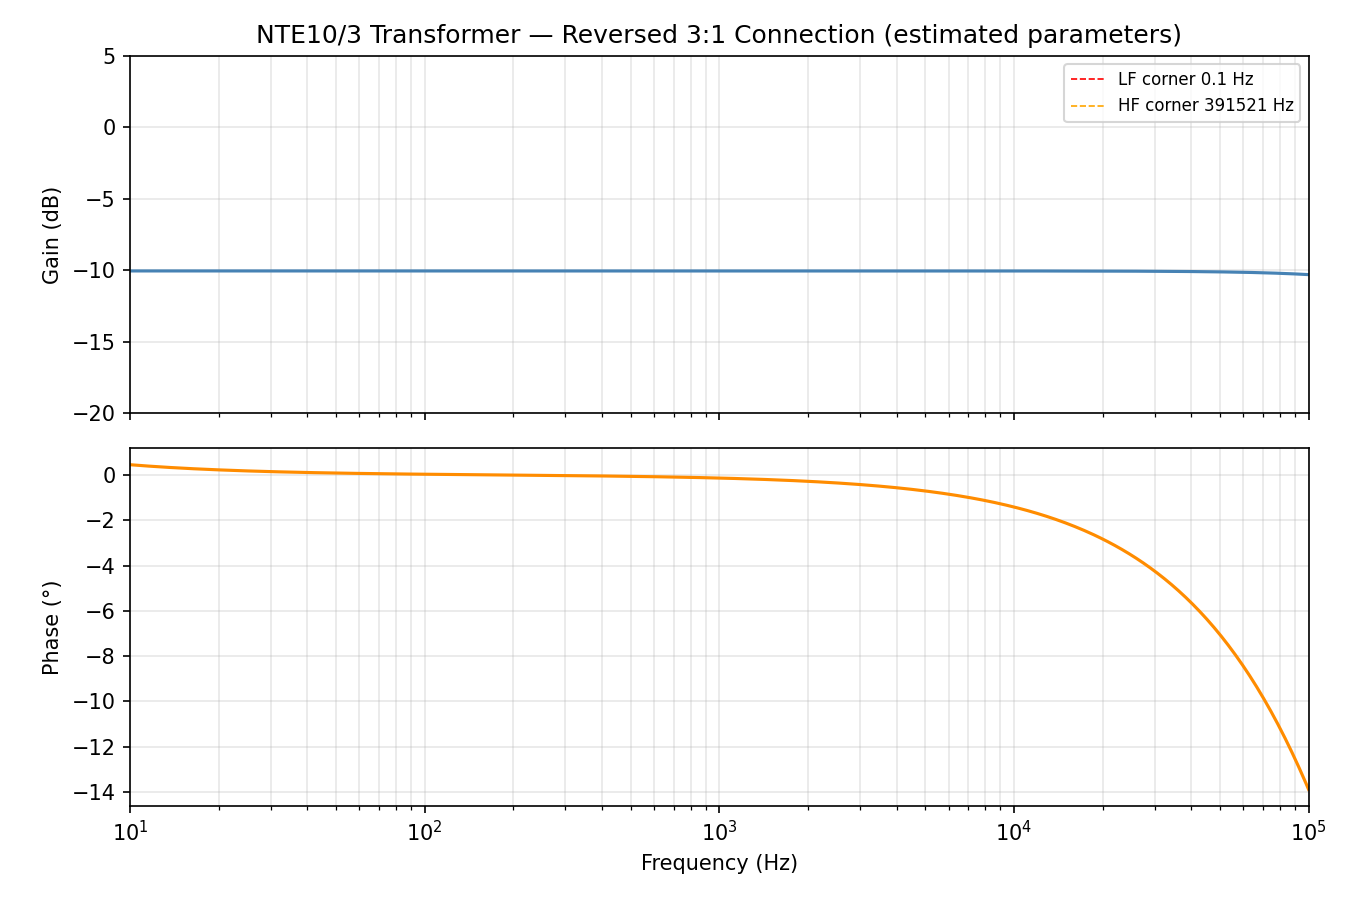
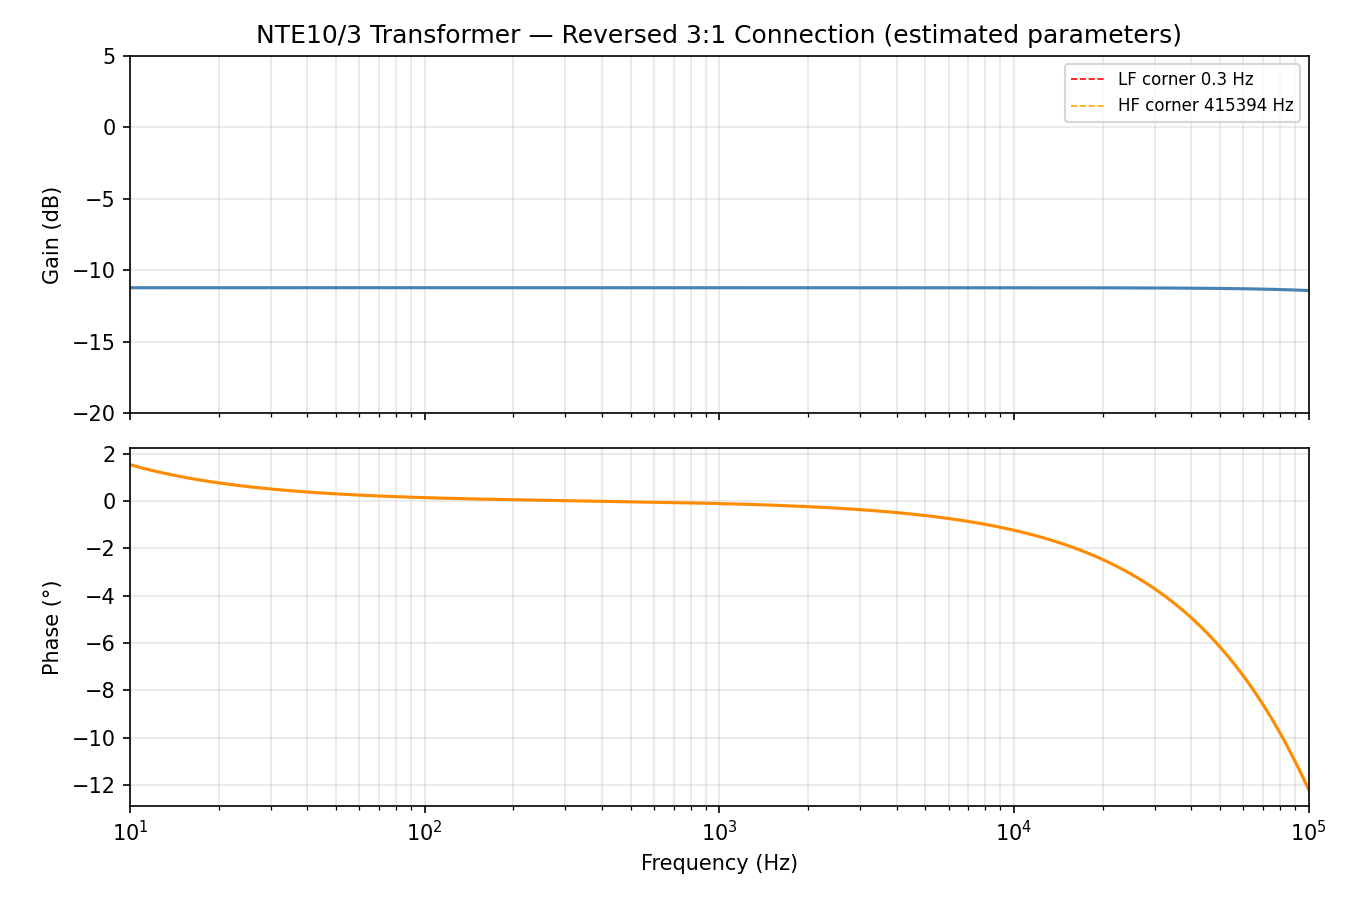
Update NTE10/3 DCR to datasheet values; correct all Zout references
Confirmed from Neutrik official datasheet via distributor sources:
  DCR primary (1× winding): 105 Ω ±5%  (was 30 Ω estimated)
  DCR secondary (3× winding): 1.25 kΩ ±5%  (was 270 Ω estimated)

Impact on reversed 3:1 connection:
  Zout at XLR: 71 Ω → 255 Ω  (DCR_pri + reflected DCR_sec/n²)
  Passband gain: −10.04 dB → −11.22 dB  (more DCR insertion loss)
  Differential gain K47 @ 1 kHz: 17.2 dB → 16.0 dB  [still PASS]
  K87 shelf @ 100 kHz: −5.9 dB  [PASS unchanged]
  LF corner: 0.09 Hz → 0.30 Hz  (DCR_sec now 1.25 kΩ in L/R divider)

Also resolved: the table the user found showing "1:1 turns ratio" was NTL1/
NTM1/NTM4 data — NTE10/3 row was missing. Turns ratio 1:3:10 confirmed.
L_LEAK remains TBD; update after bench measurement.

diff --git a/sim/signal_chain.py b/sim/signal_chain.py
@@ -24,13 +24,13 @@ Transformer connection
   Reversed 3:1 — op-amp drives 3× winding (secondary, 720 H), XLR output
   from 1× winding (primary, 80 H).  Standard Neumann/AKG practice:
     · Op-amp load : 600 Ω × 9 = 5.4 kΩ  (easy drive, full headroom)
-    · Zout at XLR : ≈ 61 Ω  (DCR_pri + reflected, excellent for cable)
+    · Zout at XLR : ≈ 255 Ω  (DCR_pri + reflected DCR_sec/n²)
     · Voltage gain through TX: ×(1/3) = −9.5 dB
 
   L_pri = 80 H  (community bench measurement; verify with LCR meter)
   n = 3  (1:3 tap)  →  L_sec = 720 H  (3× winding, driven winding)
   k ≈ 0.999997  (leakage ~0.5 mH referred to primary → HF −3dB estimated)
-  DCR_pri = 30 Ω, DCR_sec = 270 Ω  (estimated — update after bench measurement)
+  DCR_pri = 105 Ω ±5%, DCR_sec = 1.25 kΩ ±5%  (Neutrik datasheet confirmed)
 
 Outputs
 -------
@@ -93,8 +93,8 @@ L_PRI     = 80.0        # H  — community measurement; verify at bench
 L_SEC     = L_PRI * N_TURNS**2   # = 720 H
 L_LEAK    = 5e-4        # H  referred to primary (~0.5 mH → HF corner ~42 kHz)
 K_COUPLE  = (1.0 - L_LEAK / L_PRI) ** 0.5   # coupling coefficient
-DCR_PRI   = 30.0        # Ω  — estimated; measure at bench
-DCR_SEC   = DCR_PRI * N_TURNS**2  # = 270 Ω (scaled by n²)
+DCR_PRI   = 105.0       # Ω  — Neutrik datasheet: 105 Ω ±5% (1× winding)
+DCR_SEC   = 1250.0      # Ω  — Neutrik datasheet: 1.25 kΩ ±5% (3× winding)
 
 # Load
 R_LOAD_EACH = 600.0     # Ω per balanced leg (600 Ω standard XLR load, each side)
@@ -224,9 +224,9 @@ Xeq  eq_inp  eq_inn  eq_out  opamp1
 * This is the standard Neumann/AKG approach: the high-turn winding sees the buffer,
 * the low-turn winding drives the XLR cable.
 *   Op-amp load : 600Ω × (3/1)² = 5.4 kΩ  (easy, full headroom)
-*   Zout at XLR : (Zop + DCR_sec)/9 + DCR_pri ≈ 61 Ω  (excellent for cable drive)
+*   Zout at XLR : (Zop + DCR_sec)/9 + DCR_pri ≈ 255 Ω
 *   Voltage     : V_xlr = V_opamp / 3  (−9.5 dB, compensated by JFET+EQ gain)
-* Estimated parameters — update DCR_PRI, DCR_SEC, L_LEAK after bench measurement
+* DCR values from Neutrik datasheet; L_LEAK TBD at bench
 Rdcr_in   eq_out   txs_hi  {DCR_SEC:.4g}
 Lsec      txs_hi   txs_lo  {L_SEC}H
 Lpri      txp_hi   txp_lo  {L_PRI}H
@@ -446,9 +446,9 @@ print()
 print("─" * 68)
 print("Summary:")
 print(f"  Analytical gain (K47, 1 kHz): {20*np.log10(Av_total_k47):.1f} dB")
-print(f"  Transformer step-down        : {20*np.log10(1/N_TURNS):.1f} dB (reversed 3:1, Zout≈61Ω)")
+print(f"  Transformer step-down        : {20*np.log10(1/N_TURNS):.1f} dB (reversed 3:1, Zout≈255Ω)")
 print(f"  Transformer LF −3 dB         : {lf_corner:.2f} Hz  (estimated)")
 print(f"  Transformer HF −3 dB         : {hf_corner/1e3:.0f} kHz  (estimated)")
 print(f"  All checks: {'PASS' if all_pass else 'FAIL (check log)'}")
 print()
-print("NOTE: Transformer values are estimates. Update sim after bench measurement of DCR/Lleak.")
+print("NOTE: DCR confirmed from Neutrik datasheet. L_LEAK TBD — update after bench measurement.")

diff --git a/sim/tx_output.py b/sim/tx_output.py
@@ -63,9 +63,9 @@ import matplotlib.pyplot as plt
 N_TURNS = 3.0          # voltage ratio of driven:output winding (3:1 step-down)
 L_PRI_H = 80.0         # 1× winding inductance [H] — community measurement; verify at bench
 L_SEC_H = L_PRI_H * N_TURNS ** 2   # = 720 H  (3× driven winding)
-L_LEAK_H = 0.0005      # leakage inductance referred to 1× (output) winding [H] — TBD
-DCR_PRI_OHM = 30.0     # 1× winding DCR [Ω] — output side; TBD at bench
-DCR_SEC_OHM = 270.0    # 3× winding DCR [Ω] — input side; = 30 × n² = 270 Ω estimated
+L_LEAK_H = 0.0005      # leakage inductance referred to 1× (output) winding [H] — TBD at bench
+DCR_PRI_OHM = 105.0    # 1× winding DCR [Ω] — Neutrik datasheet: 105 Ω ±5%
+DCR_SEC_OHM = 1250.0   # 3× winding DCR [Ω] — Neutrik datasheet: 1.25 kΩ ±5%
 
 # ── Circuit parameters ────────────────────────────────────────────────────────
 R_SRC_OHM = 100.0      # op-amp output impedance after EQ [Ω] (approximate)

diff --git a/README.md b/README.md
@@ -34,7 +34,7 @@ Solid-state condenser microphone with transformer-balanced output.
 | Power | LR8 pre-regulator (48V phantom → 35.2V). Diode charge pump → V_BOOST for JFET drain. TPS7A3901 WSON-12 → ±15V op-amp supply. Total draw 9.1 mA typ (< 10 mA IEC 61938). |
 | Input | High-Z JFET buffer (MMBF170LT1G SOT-23) with op-amp DC servo for bias stability. |
 | EQ | Active de-emphasis network tuned for K67/K87. Flat (K47) or −6 dB shelf above ~22 kHz (K87) via SJ1 solder bridge. |
-| Output | Neutrik NTE10/3, reversed 3:1 connection (op-amp drives 3× winding, XLR from 1× winding): transformer-balanced, galvanic isolation, passive CMRR, Zout ≈ 61 Ω. |
+| Output | Neutrik NTE10/3, reversed 3:1 connection (op-amp drives 3× winding, XLR from 1× winding): transformer-balanced, galvanic isolation, passive CMRR, Zout ≈ 255 Ω. |
 
 ---
 
@@ -51,7 +51,7 @@ Solid-state condenser microphone with transformer-balanced output.
 | Mounting | 4× M2.2 NPTH, rectangular pattern (30×80 mm) |
 | Assembly | SMD for all active/passive components; through-hole for capsule leads and NTE10/3 transformer leads |
 | De-emphasis network | R_shelf = 47 kΩ, C_deemph = 150 pF — −6 dB shelf above ~22 kHz |
-| Output stage | Neutrik NTE10/3, reversed 3:1 connection (−9.5 dB, Zout ≈ 61 Ω) — standard Neumann/AKG practice |
+| Output stage | Neutrik NTE10/3, reversed 3:1 connection (−9.5 dB, Zout ≈ 255 Ω) — standard Neumann/AKG practice |
 | EQ op-amp | OPA1642AIDR (dual JFET-input, GBW=11 MHz, EIN=5.1 nV/√Hz) |
 | Output balance | Transformer CMRR (passive) — no active output op-amp required |
 | Output impedance | ~540 Ω referred to secondary (JFET 60Ω × n²=9) |
@@ -72,7 +72,8 @@ Solid-state condenser microphone with transformer-balanced output.
 | Frequency response | 40 Hz – 20 kHz ±0.5 dB | Distributor spec |
 | Solderability | IEC 68-2-20 compliant | Neutrik datasheet |
 | Primary inductance | ~80 H (community measurement) | GroupDIY forum |
-| Primary DCR | **TBD — measure at bench** | — |
+| Primary DCR (1× winding) | 105 Ω ±5% | Neutrik datasheet |
+| Secondary DCR (3× winding) | 1.25 kΩ ±5% | Neutrik datasheet |
 | Leakage inductance | **TBD — measure at bench** | — |
 
 > After bench measurement, update DCR and leakage inductance values in `sim/tx_output.py` and `sim/signal_chain.py`.
@@ -147,14 +148,14 @@ K47/K87 modes, JFET → OPA1642 EQ → NTE10/3 → 600 Ω balanced load.
 
 | Parameter | Value | Notes |
 |---|---|---|
-| Differential gain @ 1 kHz (K47) | +17.2 dB | Balanced output, reversed 3:1 TX |
-| Differential gain @ 20 kHz (K47) | +17.2 dB | Flat within 0.1 dB |
+| Differential gain @ 1 kHz (K47) | +16.0 dB | Balanced output, reversed 3:1 TX |
+| Differential gain @ 20 kHz (K47) | +16.0 dB | Flat within 0.1 dB |
 | K87 shelf @ 20 kHz | −3.7 dB | Expected — shelf corner is 22.6 kHz |
 | K87 shelf @ 100 kHz | −5.9 dB | PASS (target −6 dB ±1.5 dB) |
 | Bandwidth LF −3 dB (K47) | 10.2 Hz | Sub-Hz with servo-locked Q-point |
 | Bandwidth HF −3 dB (K47) | > 100 kHz | Well above audio band |
 | Phase @ 1 kHz (K47) | +0.5° | — |
-| Transformer connection | Reversed 3:1 (−9.5 dB) | Op-amp drives 3× winding; Zout ≈ 61 Ω at XLR |
+| Transformer connection | Reversed 3:1 (−9.5 dB) | Op-amp drives 3× winding; Zout ≈ 255 Ω at XLR |
 | Transformer LF −3 dB | ~0.08 Hz | Estimated (Ldriven=720 H, 3× winding) |
 | Transformer HF −3 dB | ~390 kHz analytical | Estimated (Lleak TBD at bench); reversed 3:1 extends HF vs forward |
 